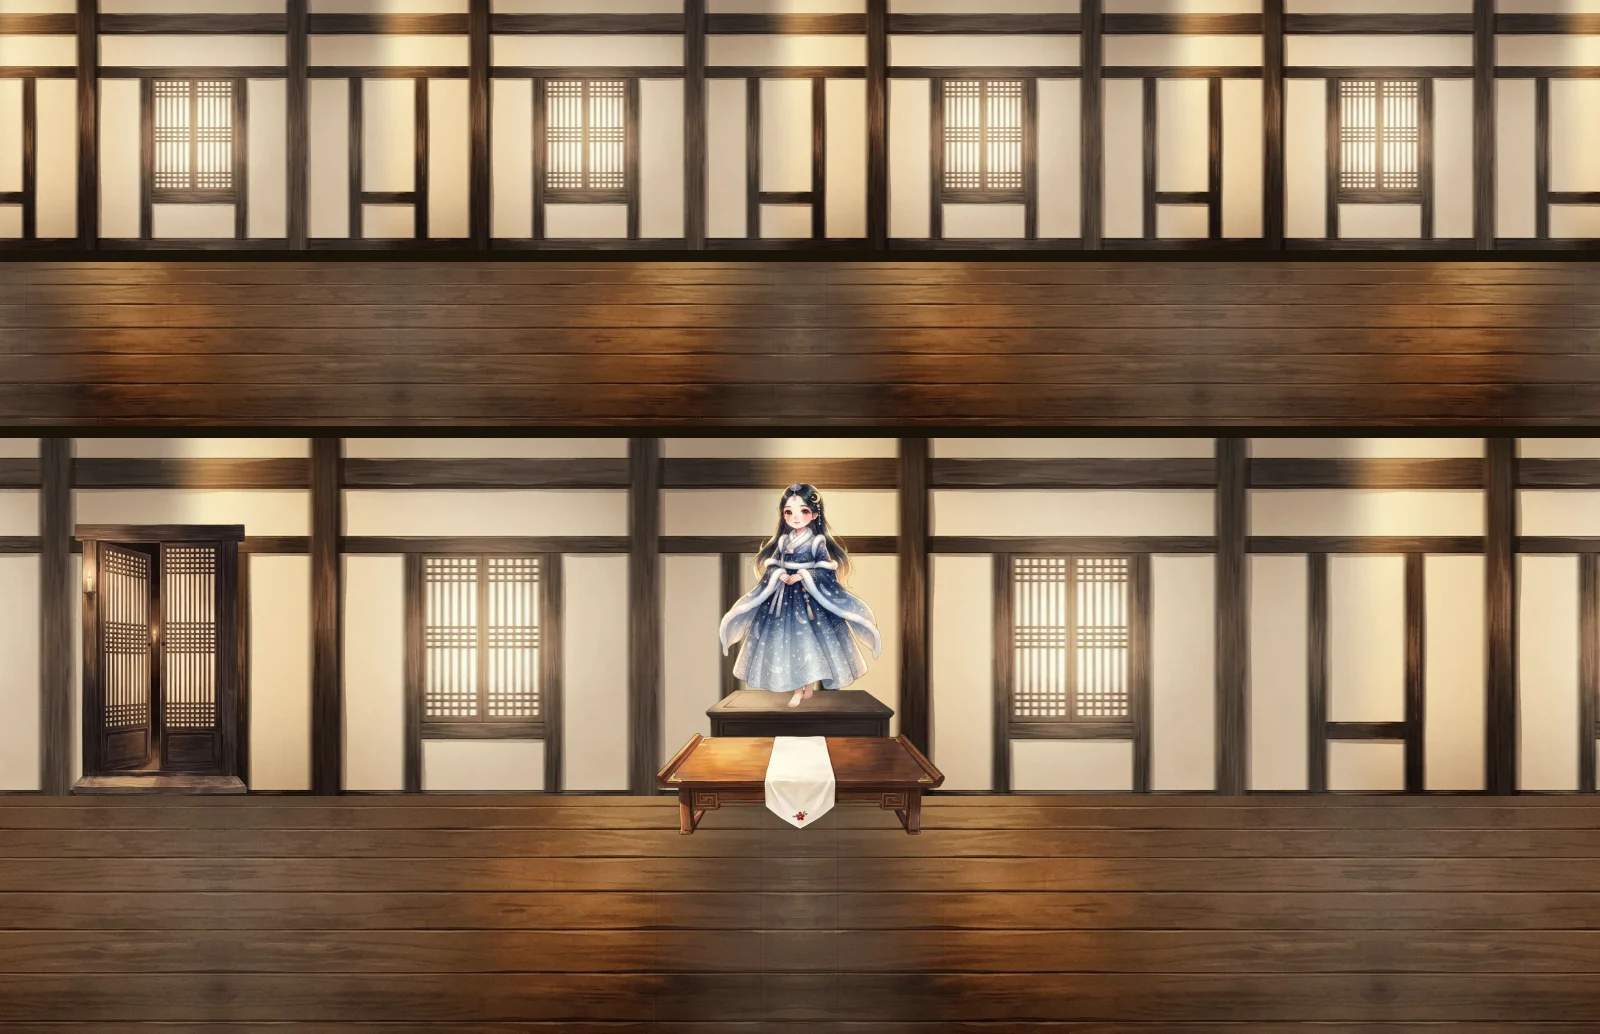
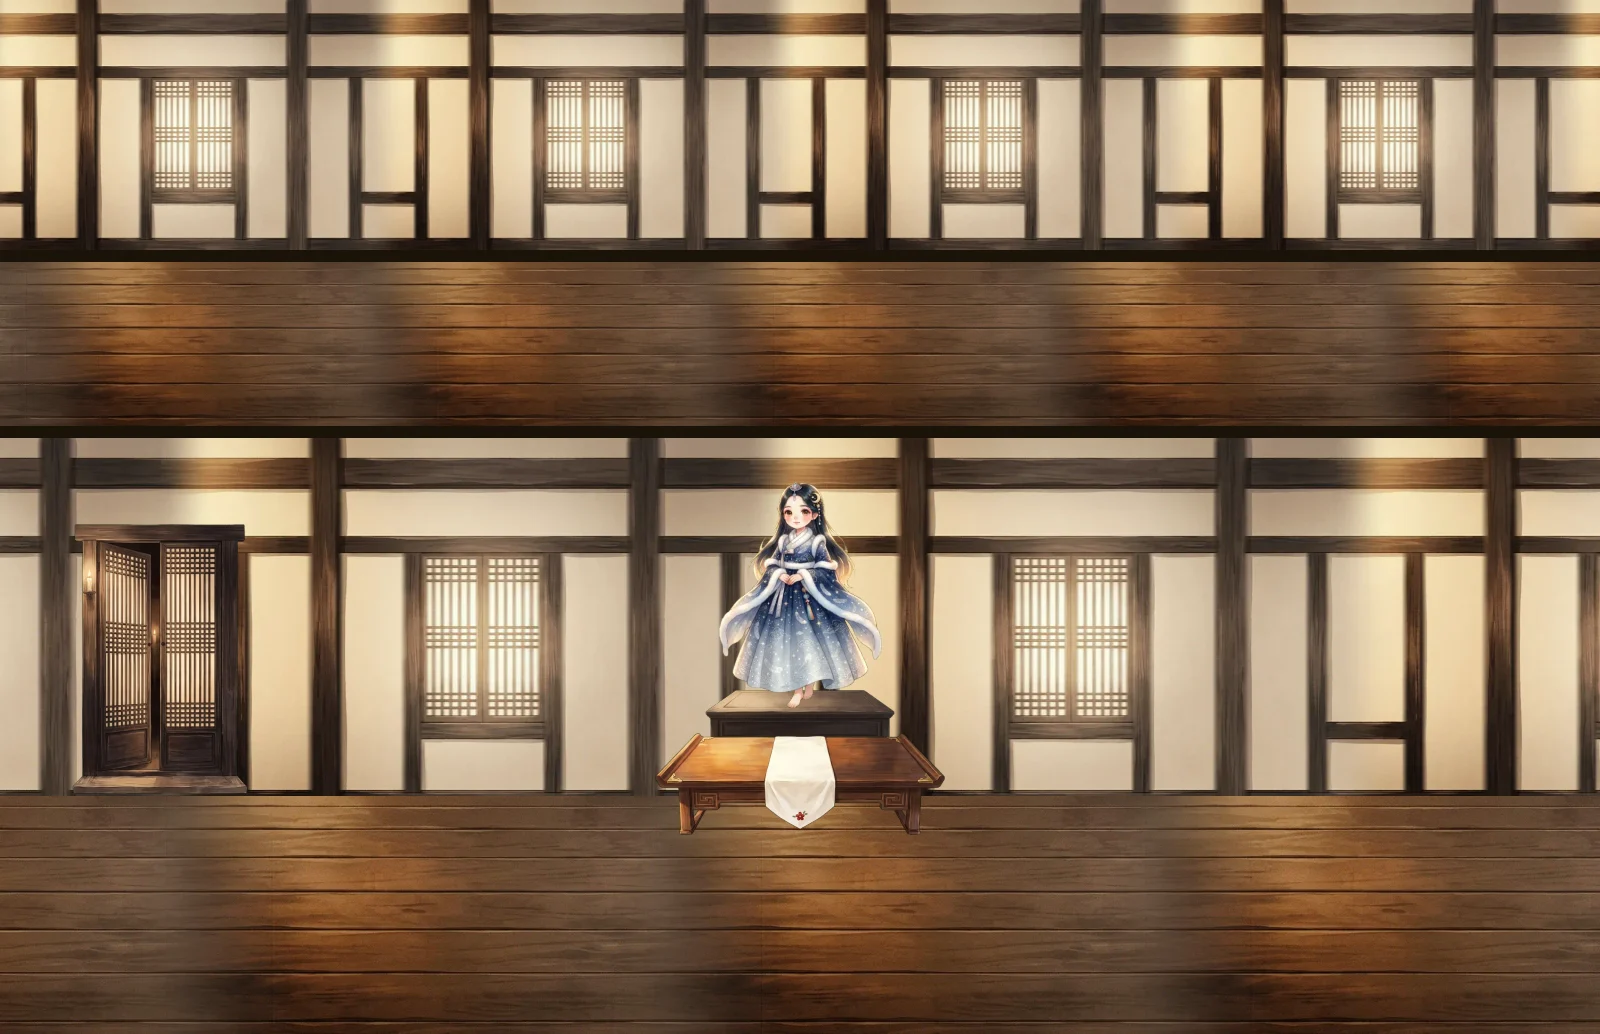
fix(shrine): 안2.5 — 마루 세로줄(미러축) 제거·신위 머리/몸 동조·제단 존 정정
CEO 5차 검수 반영.

① 세로줄 — 벽은 고쳤는데 마루를 안 고쳤다
안2.4 에서 벽 무라는 퀼팅으로 거울축을 없앴지만 마루는 미러 폴백을 남겼다. 근거였던
"Δ4.17 = 육안 무해"가 틀렸다 — Δ 가 작아도 미러 축에서 나뭇결이 좌우로 접히는 구조적
대칭은 그대로 보인다(대칭 0.910 실측). 벽에서 얻은 교훈을 마루에 적용하지 않은 것이
재발의 직접 원인이다.
처방: 크로스페이드 조립(세 번째 모드). 마루는 매끈해 퀼팅 절단 후보 짝이 서지 않으므로
(고정점 0) 뒤집지 않고 겹쳐 깔고 겹침 160px 을 smoothstep 으로 섞는다. 선형이면 겹침
양끝에서 기울기가 꺾여 그 자리가 다시 선이 된다.
실측: 이음매 1.18(내부 p95 2.72 안) · 렌더 Δ 5.5→4.6 · 대칭 0.910→0.837.

게이트 수정 — 대칭에 절대 임계를 걸면 안 된다. 지표가 창 폭에 지나치게 민감하고
(같은 무라가 창 1280 에서 0.372, 819 에서 0.653) 타일 원본 자체가 대칭이라
(마루 0.652·벽 0.864) 어떤 조립도 0 에 못 간다. 그래서 "우리가 버린 미러 조립보다
나아졌는가"로 바꿨다 — 같은 자로 재는 단조 기준이다.

② 신위 회전 — 등급은 정상, 프레임 내용이 문제였다
9국면 판정·에셋 서빙 모두 정상인데 "기존과 동일"로 읽힌 이유는 중간각이 몸만 돌고
얼굴은 카메라를 향했기 때문이다(몸 0/45/90 vs 머리 0/0/90 = "머리 몸 따로 돈다").
처방은 한 문장 — 머리를 몸과 같은 각도로 돌리고 시선을 카메라 밖으로 보낸다.
재생성 결과 두 신위 모두 머리가 몸을 따라 돌고 방향도 side 와 일치한다.

③ ZONES.altar [42,54] → [48,56]
2단 제단으로 상판이 내려가 42~48 이 상 뒤 허공이 됐다. 라이브 실측 altar 배치 14건 중
3건이 그 구간에 있었고 전부 가려진 상태였다 — 하한을 올리는 것은 회귀가 아니라 수복이다.
상한 54→56 은 시드 앵커(53.5) 여유가 0.4%p 뿐이던 것을 2.4%p 로 넓힌다.
레거시 폴백 앵커는 존 중점 파생을 끊고 48 로 고정 — 파생을 두면 레거시 테마 앵커가
이유 없이 4%p 내려간다.

검증: tsc clean · jest 572/572 (신규 제단 존 계약 2건 포함)

diff --git a/lib/domain/shrine/__tests__/banga-wide-seed.test.ts b/lib/domain/shrine/__tests__/banga-wide-seed.test.ts
@@ -330,8 +330,9 @@ describe('앵커 — 기존 3점 승계, y 만 새 상판 면으로', () => {
   })
 
   it('앵커 y 가 ZONES.altar.y 안이다 — 밖이면 드래그 클램프에 막혀 **영구 도달 불가**', () => {
-    // 참고: 이 상한(현재 54)이 곧 상판을 더 내릴 수 없는 이유다(시드 계약 4). 여유는 0.5%p 뿐이다.
-    // zones.ty 를 넓히는 것은 개선이므로 여유값 자체를 단정하지 않는다 — 범위 안에 있는지만 본다.
+    // 안2.5 에서 상한을 54→56 으로 넓혀 여유가 0.4 → 2.4%p 가 됐다(종전에는 상판을 조금만
+    // 더 내려도 앵커가 존 밖으로 나가 영구 도달 불가가 됐다). 여유값 자체는 단정하지 않는다 —
+    // 넓히는 것은 개선이므로 범위 안에 있는지만 본다.
     const [lo, hi] = ZONES.altar.y
     expect(ALTAR_ANCHOR_Y).toBeGreaterThanOrEqual(lo)
     expect(ALTAR_ANCHOR_Y).toBeLessThanOrEqual(hi)
@@ -481,5 +482,23 @@ describe('에셋 실재', () => {
     const w = 1 + buf.readUIntLE(vp8x + 12, 3)
     const h = 1 + buf.readUIntLE(vp8x + 15, 3)
     expect({ w, h }).toEqual(PLATFORM_PX)
+  })
+})
+
+describe('ZONES.altar — 제단 존 계약 (안2.5)', () => {
+  /** 상판 겉보기 상단(방 높이 %) — stage-banga-mural 검수 산출 y49.4~66.6 의 위쪽 */
+  const ALTAR_TOP_Y = 49.4
+
+  it('하한이 상판 상단 부근이다 — 더 낮으면 공물이 상 뒤 허공에 놓인다', () => {
+    // 라이브 실측(2026-07-30): 종전 하한 42 에서 altar 배치 14건 중 3건이 42~48 구간에 있었고
+    // 전부 상판에 가려 보이지 않았다. 하한을 다시 낮추는 변경은 그 결함을 되살린다.
+    const [lo] = ZONES.altar.y
+    expect(lo).toBeGreaterThanOrEqual(48)
+    expect(lo).toBeLessThanOrEqual(ALTAR_TOP_Y)
+  })
+
+  it('상한이 시드 상판 앵커보다 위다 — 여유가 0 이면 상판을 더 못 내린다', () => {
+    const [, hi] = ZONES.altar.y
+    expect(hi).toBeGreaterThan(ALTAR_ANCHOR_Y)
   })
 })

diff --git a/lib/domain/shrine/zones.ts b/lib/domain/shrine/zones.ts
@@ -13,7 +13,17 @@ export interface ZoneRange {
 export const ZONES: Record<Layer, ZoneRange> = {
   hanging: { x: [8, 92], y: [8, 20] },
   wall: { x: [8, 92], y: [23, 42] },
-  altar: { x: [24, 76], y: [42, 54] },
+  /**
+   * 제단. 안2.3 에서 제단이 2단(단상+상판)이 되면서 상판 상면이 내려갔다 —
+   * 종전 하한 42 는 이제 **상판 뒤 허공**이라 거기 놓인 공물이 상에 가려 보이지 않는다
+   * (라이브 실측: altar 배치 14건 중 3건이 42~48 구간에 있었고 전부 가려진 상태였다).
+   * 그래서 하한을 48 로 올린다 — 되돌리는 것이 아니라 이미 깨져 있던 배치를 상 앞으로 꺼내는 것이다.
+   * 상한 54→56 은 여유다: 시드 상판 앵커가 53.6 이라 종전에는 0.4%p 밖에 남지 않아
+   * 상판을 조금만 더 내려도 앵커가 존 밖으로 나가 **영구 도달 불가**가 됐다(banga-wide-seed 계약).
+   *
+   * ⚠ 저장 시에만 클램프한다(조회는 안 한다) — 42~48 배치는 다음 저장 때 48 로 올라온다.
+   */
+  altar: { x: [24, 76], y: [48, 56] },
   floor: { x: [8, 92], y: [64, 90] },
 }
 

diff --git a/lib/domain/shrine/stage.ts b/lib/domain/shrine/stage.ts
@@ -239,7 +239,13 @@ export function nearestAnchor(
 }
 
 /** ZONES 파생 좌표 (구조물 없는 레거시 테마의 폴백 앵커용) */
-const ALTAR_ANCHOR_Y = round((ZONES.altar.y[0] + ZONES.altar.y[1]) / 2, 2) // 48
+/**
+ * ⚠ 존 중점에서 **파생하지 않는다**(종전에는 (42+54)/2 = 48 이었다).
+ * 이 값은 구조물이 없는 **레거시 테마**의 폴백 앵커라 레거시 제단 그림의 상면(≈48)을 가리켜야 하는데,
+ * 안2.5 에서 제단 존을 [48,56] 으로 좁히면서 중점이 52 로 밀린다 — 파생을 두면 레거시 테마의
+ * 앵커가 이유 없이 4%p 내려간다. 존이 바뀐 이유(반가 2단 제단)와 레거시 제단은 무관하므로 고정한다.
+ */
+const ALTAR_ANCHOR_Y = 48
 const ALTAR_SPAN_X = ZONES.altar.x[1] - ZONES.altar.x[0]
 const WALL_ANCHOR_Y = round((ZONES.wall.y[0] + ZONES.wall.y[1]) / 2, 2) // 32.5
 const WALL_SPAN_X = ZONES.wall.x[1] - ZONES.wall.x[0]
